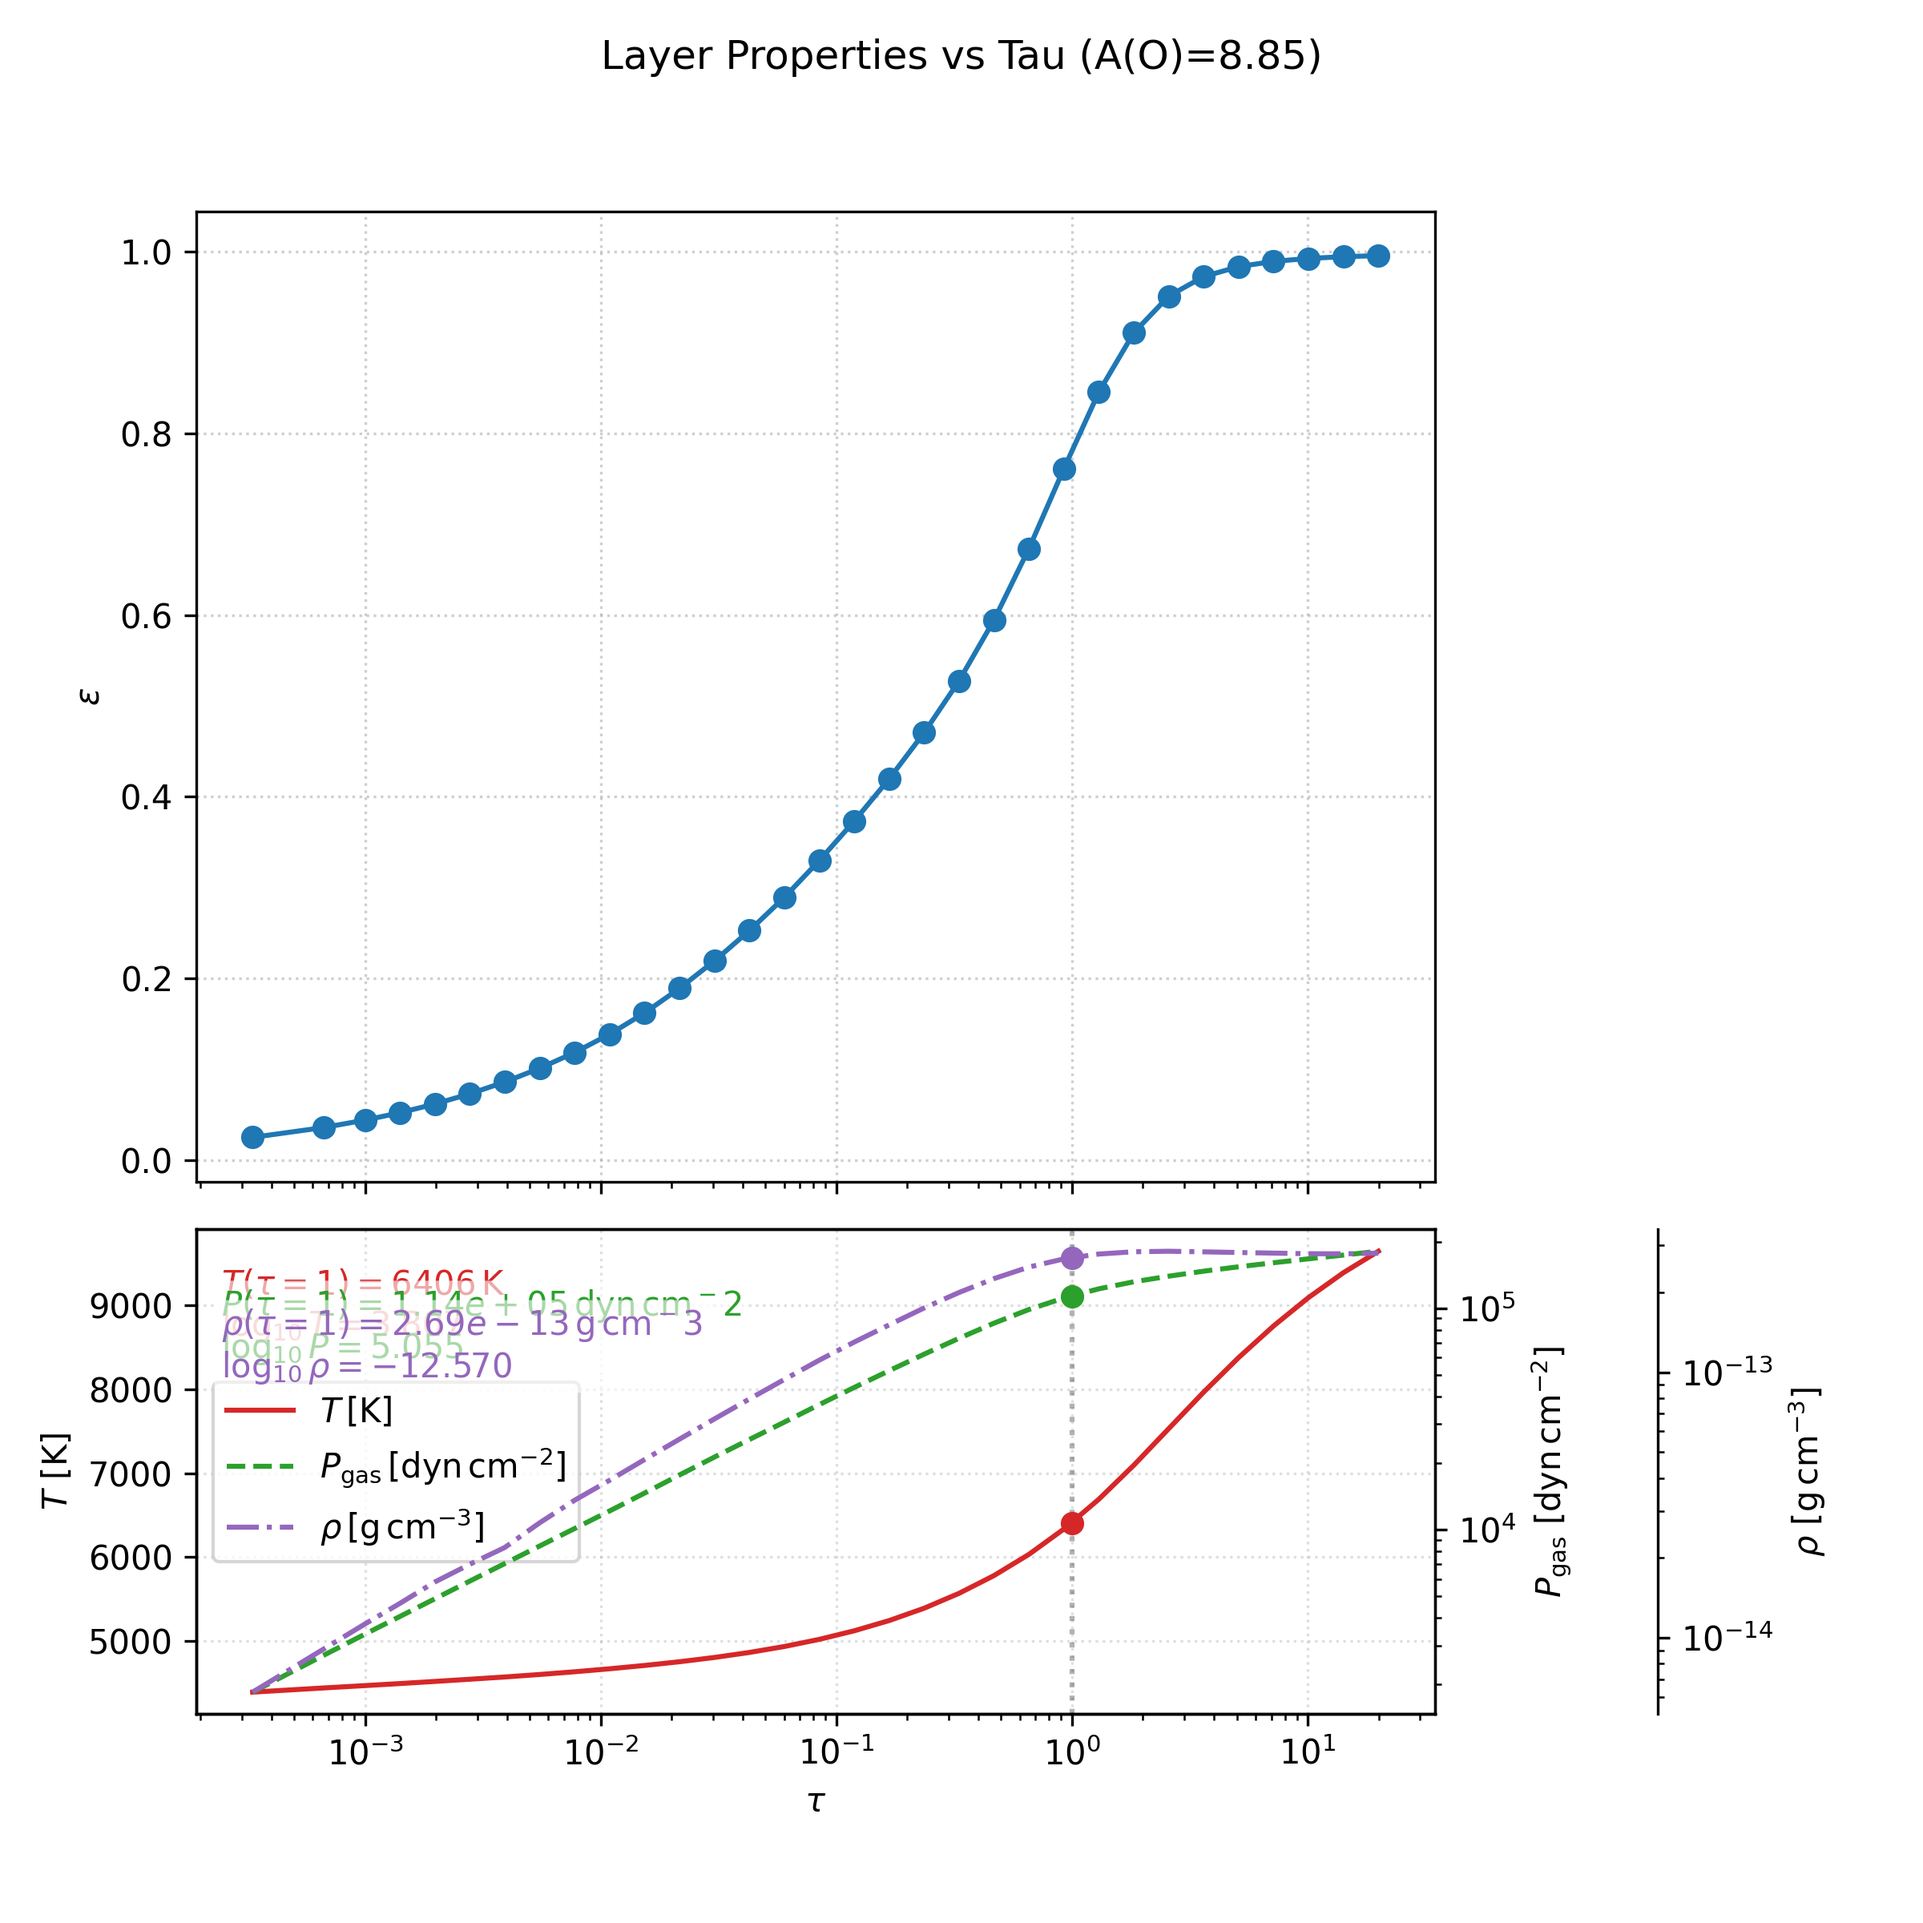
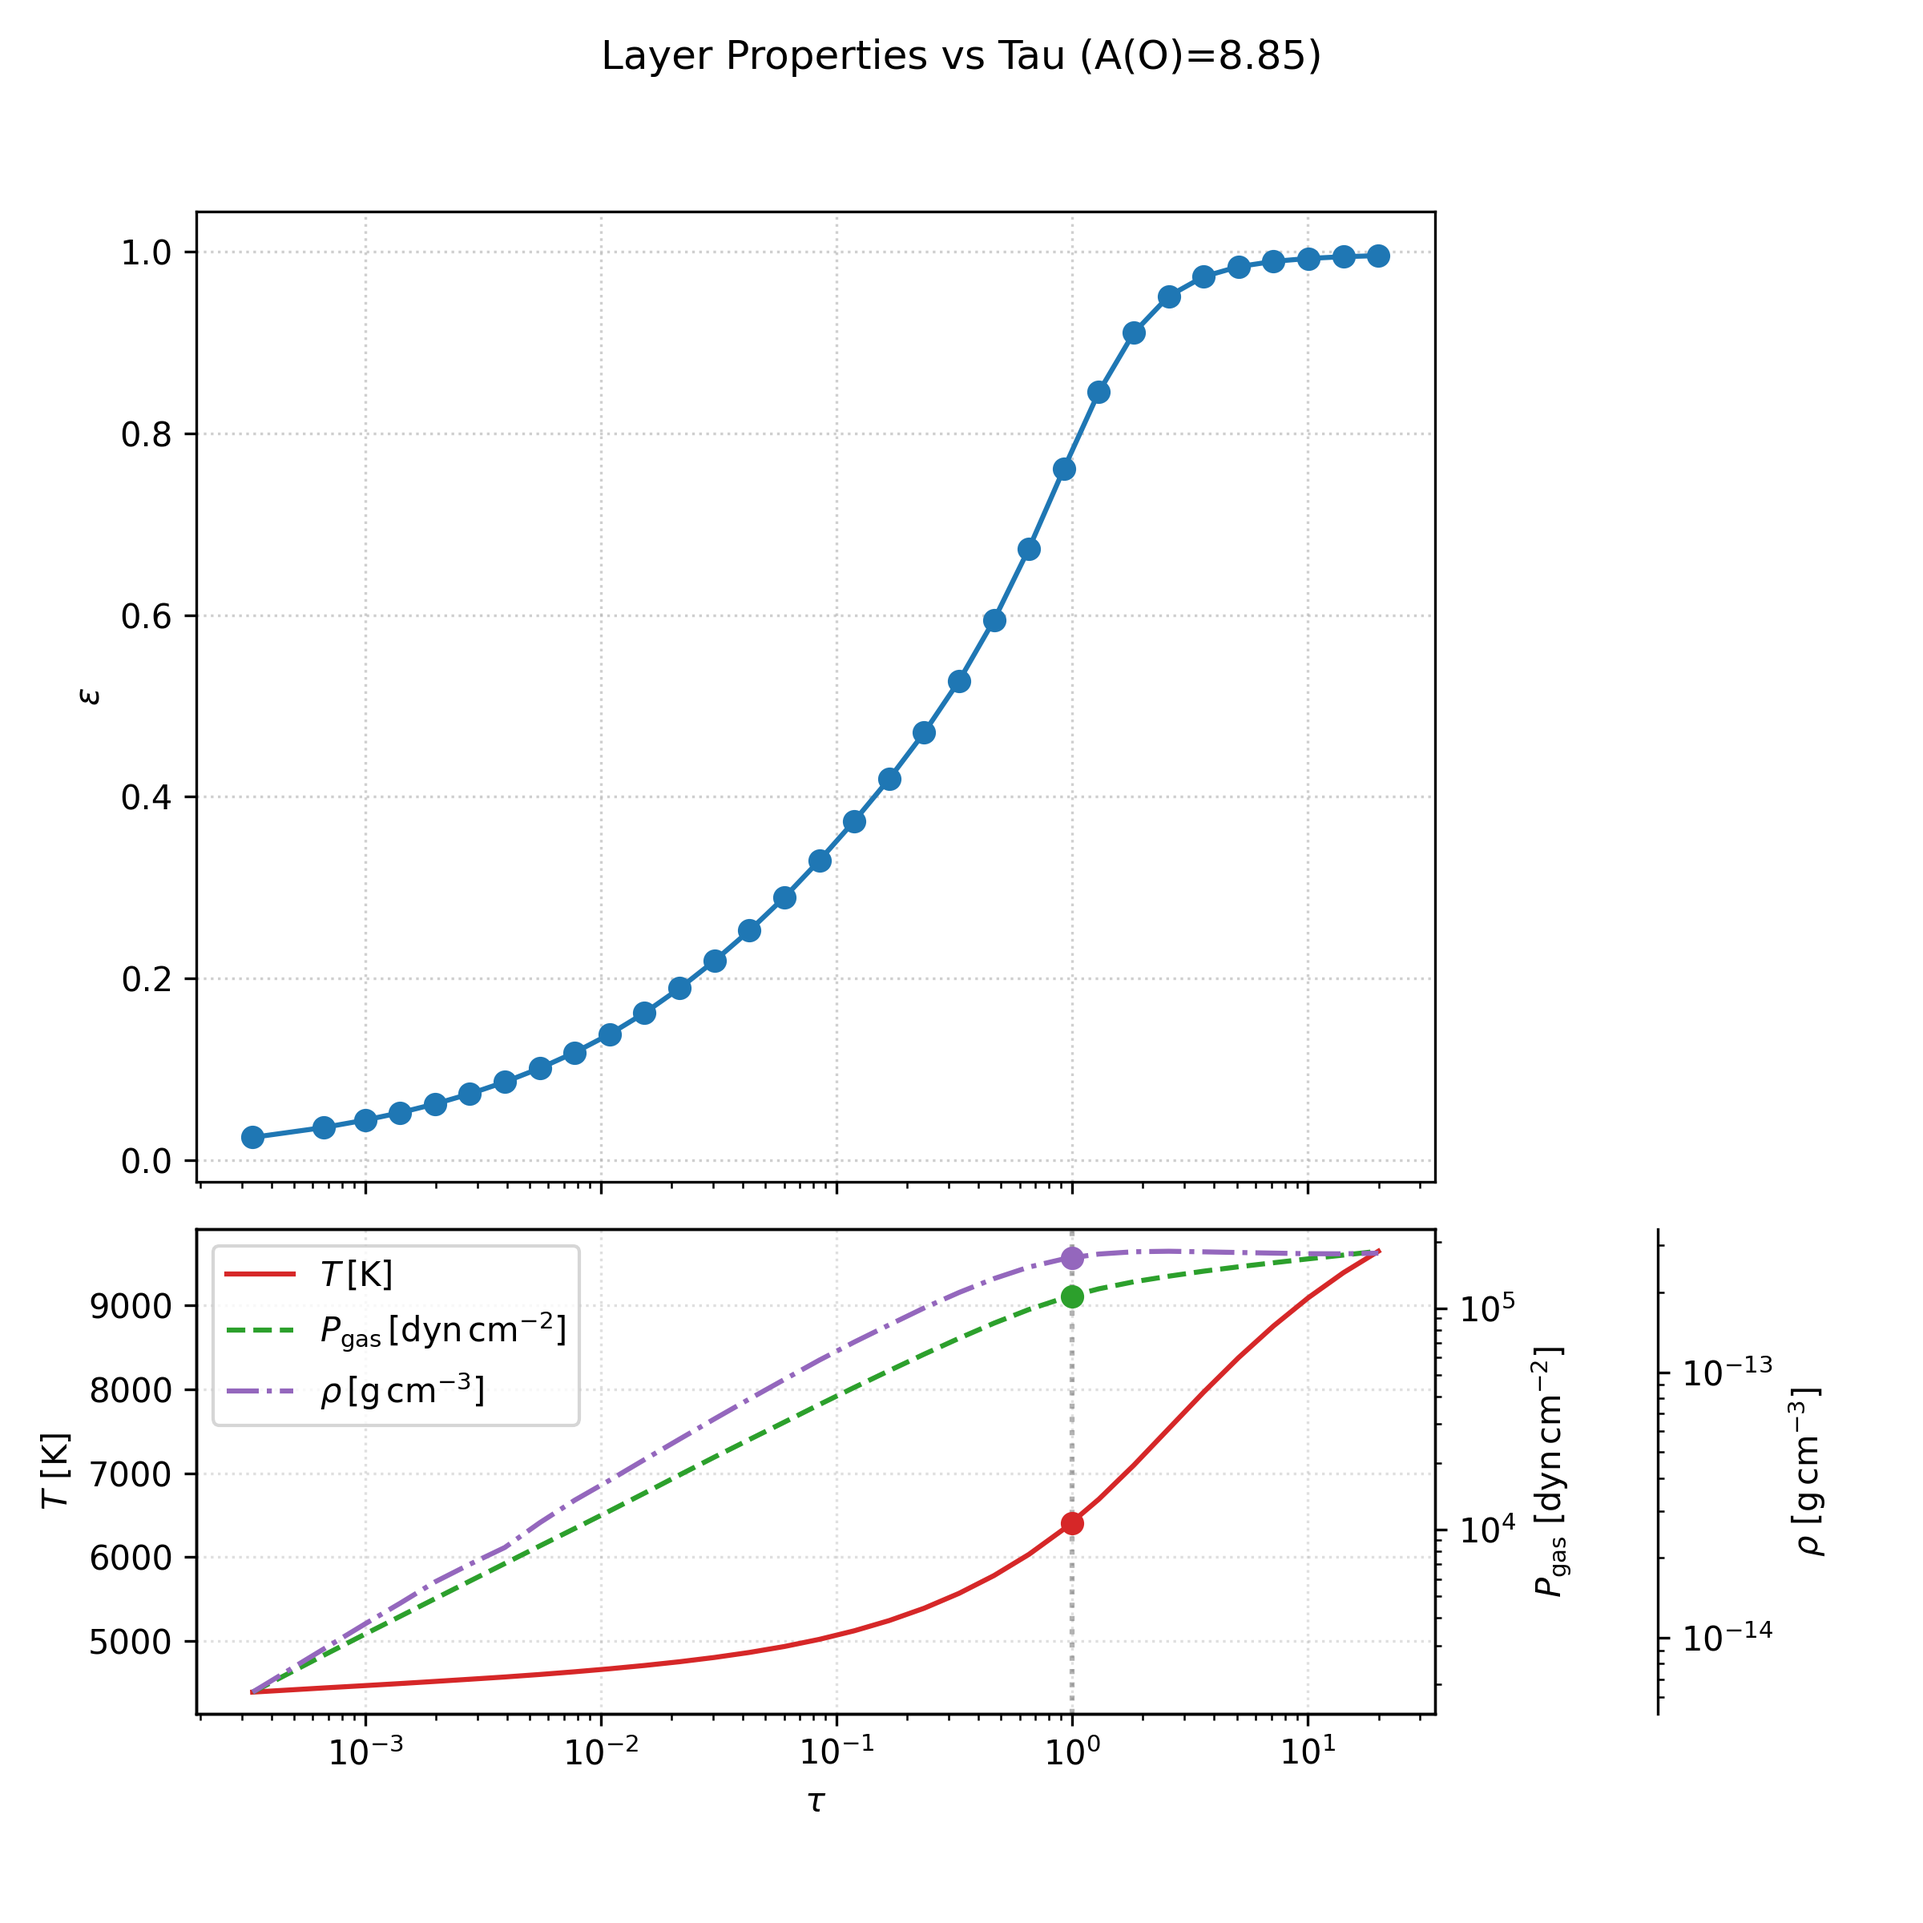
submit version

Changed region(s): [[0.0938, 0.6562, 0.375, 0.8125], [0.2812, 0.75, 0.3125, 0.7812]]

diff --git a/structure.py b/structure.py
@@ -38,7 +38,7 @@ OI_TRIPLET = [
 
 
 DEFAULT_ABUNDANCES = np.array([8.59, 9.50, 10.00])
-# trial_abundances = np.array([8.59, 8.69])
+
 # ---- Tunable configuration ----
 BROADENING = {
     "macro": 2.0,   # km/s  # Macroturbulence velocity
@@ -172,6 +172,25 @@ def ensure_opacity_tables(abundance, tables_dir, regenerate=False, show_plot=Fal
     return opacity_path
 
 
+def Blambda_SI(wave_um, T):
+    """
+    Planck function in cgs units.
+    """
+    return planck_C1/wave_um**5/(np.exp(planck_C2/wave_um/T)-1)
+
+def compute_H(wave, Ts, tau_grid, kappa_nu_bars, kappa_bars):
+    Hlambda = np.zeros(len(wave))  # Initialize H array
+    # Compute the flux for each wavelength
+    for i, w in enumerate(wave):
+        # Now we need S(tau_nu), i.e. B(tau_nu(tau))
+        tau_nu  = cumulative_trapezoid(kappa_nu_bars[i]/kappa_bars, x=tau_grid, initial=0)
+        wave_um = w.to(u.um).value
+        Slambda = Blambda_SI(wave_um, Ts)
+        Hlambda[i] = 0.5*(Slambda[0]*expn(3,0) + \
+        np.sum((Slambda[1:]-Slambda[:-1])/(tau_nu[1:]-tau_nu[:-1])*\
+             (expn(4,tau_nu[:-1])-expn(4,tau_nu[1:]))))
+    return Hlambda
+
 def load_kappa_bars(opacity_path, Ps, Ts):
     """Load Rosseland mean opacities and interpolate onto the model grid."""
     with pyfits.open(opacity_path) as f_opac:
@@ -207,6 +226,7 @@ def run_abundance_case(job):
 
     epsilon_profile = np.zeros(len(tau_grid))
     kappa_nu_bars = np.empty((Nnu, len(tau_grid)))
+    rho_profile = np.zeros(len(tau_grid))
 
     for i, (T, P, _) in enumerate(zip(Ts, Ps, rhos)):
         P_with_units = P * u.dyne / u.cm**2
@@ -242,6 +262,7 @@ def run_abundance_case(job):
 
         epsilon_profile[i] = weighted_eps_sum / f_sum
 
+        rho_profile[i] = rho_check
         rho_val = rho_check
 
         kappa_continuum = opac.kappa_cont(nu, T, nHI=ns_val[0], nHII=ns_val[1], nHm=ns_val[2], ne=n_e_val)
@@ -352,6 +373,7 @@ def run_abundance_case(job):
         'line_indices_list': line_indices_list,
         'S_profiles': np.array(S_profiles),
         'contrib_profiles': np.array(contrib_profiles),
+        'rho_profile': rho_profile,
     }
 
     return result
@@ -529,6 +551,8 @@ def main():
     results_list = []
     log_tau = np.log10(tau_grid)
 
+    rho_records = []
+
     for res in results:
         abundance = res['abundance']
         epsilon_profile = res['epsilon_profile']
@@ -540,6 +564,10 @@ def main():
         model_EW_results_nlte = res['model_EW_pm_nlte']
         model_EW_results_lte = res['model_EW_pm_lte']
         S_profiles = res['S_profiles']
+        rho_profile = res.get('rho_profile')
+
+        if rho_profile is not None:
+            rho_records.append((abundance, rho_profile))
 
         print(f"{'='*60}")
         print(f"--- Results for log A(O) = {abundance:.2f} ---")
@@ -614,13 +642,21 @@ def main():
 
         ax_rho = ax_state.twinx()
         ax_rho.spines["right"].set_position(("axes", 1.18))
-        rho_line, = ax_rho.semilogx(tau_grid, rhos, color='tab:purple', linestyle='-.', label=r'$\rho\,[\mathrm{g\,cm^{-3}}]$')
+        rho_line = None
+        if rho_records:
+            for abundance_rho, rho_prof in rho_records:
+                ax_rho.semilogx(tau_grid, rho_prof, color='tab:purple', linestyle='-.', alpha=0.3)
+            # use last one for legend
+            rho_line, = ax_rho.semilogx(tau_grid, rho_records[-1][1], color='tab:purple', linestyle='-.', alpha=0.8, label=r'$\rho_{\rm Saha}\,[\mathrm{g\,cm^{-3}}]$')
+        else:
+            rho_line, = ax_rho.semilogx(tau_grid, rhos, color='tab:purple', linestyle='-.', label=r'$\rho\,[\mathrm{g\,cm^{-3}}]$')
         ax_rho.set_ylabel(r'$\rho\ \mathrm{[g\,cm^{-3}]}$')
         ax_rho.set_yscale('log')
 
         ax_state.set_xlabel(r'$\tau$')
 
         tau_ref = 1.0
+
         if tau_grid.min() <= tau_ref <= tau_grid.max():
             T_tau = float(np.interp(tau_ref, tau_grid, Ts))
             P_tau = float(np.interp(tau_ref, tau_grid, Ps))
@@ -636,7 +672,9 @@ def main():
             if rho_tau > 0:
                 ax_rho.scatter([tau_ref], [rho_tau], color='tab:purple', zorder=5)
 
-        lines = [temp_line, pressure_line, rho_line]
+        lines = [temp_line, pressure_line]
+        if rho_line is not None:
+            lines.append(rho_line)
         labels = [line.get_label() for line in lines]
         ax_state.legend(lines, labels, loc='best')
 

diff --git a/nlte_branch.py b/nlte_branch.py
@@ -30,10 +30,10 @@ def H_nlte_at_nu(
     tiny = 1e-12
     eps_clip = np.clip(eps, tiny, 1.0)
 
-    kappa_ratio_eff = kappa_ratio / eps_clip
-    tau_nu = tau_nu_from_ratio(tau_grid, kappa_ratio_eff)
+    # kappa_ratio_eff = kappa_ratio / eps_clip
+    # tau_nu = tau_nu_from_ratio(tau_grid, kappa_ratio_eff)
     
-    # tau_nu = tau_nu_from_ratio(tau_grid, kappa_ratio)
+    tau_nu = tau_nu_from_ratio(tau_grid, kappa_ratio)
 
     Λ = lambda_matrix(tau_nu)
     Φ = phi_matrix(tau_nu)
